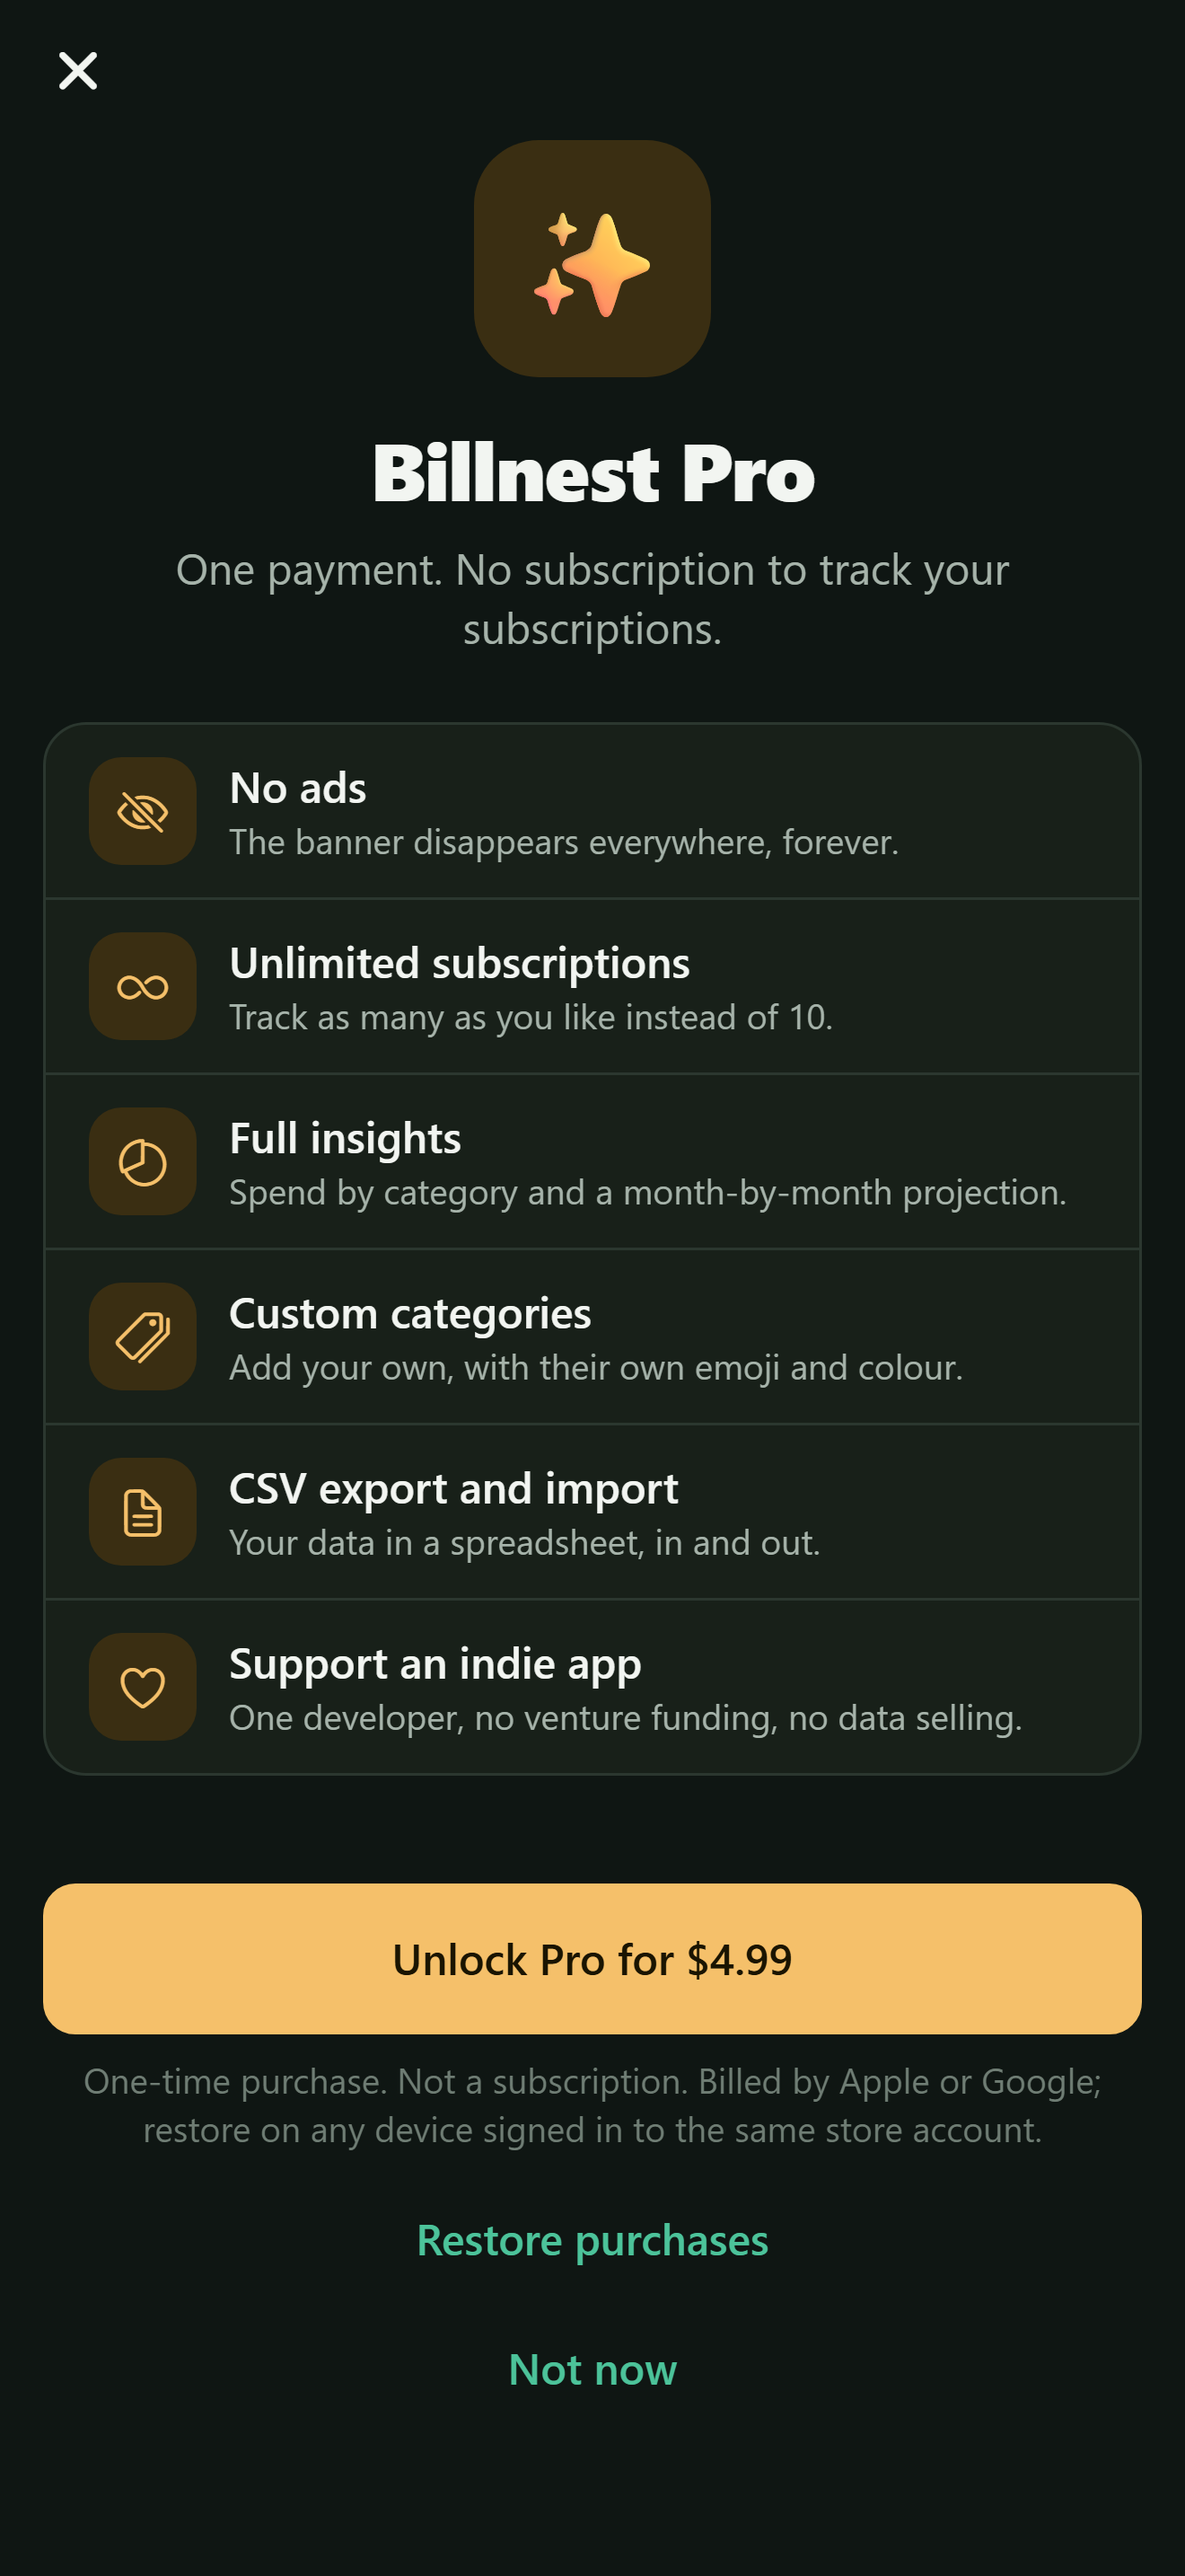
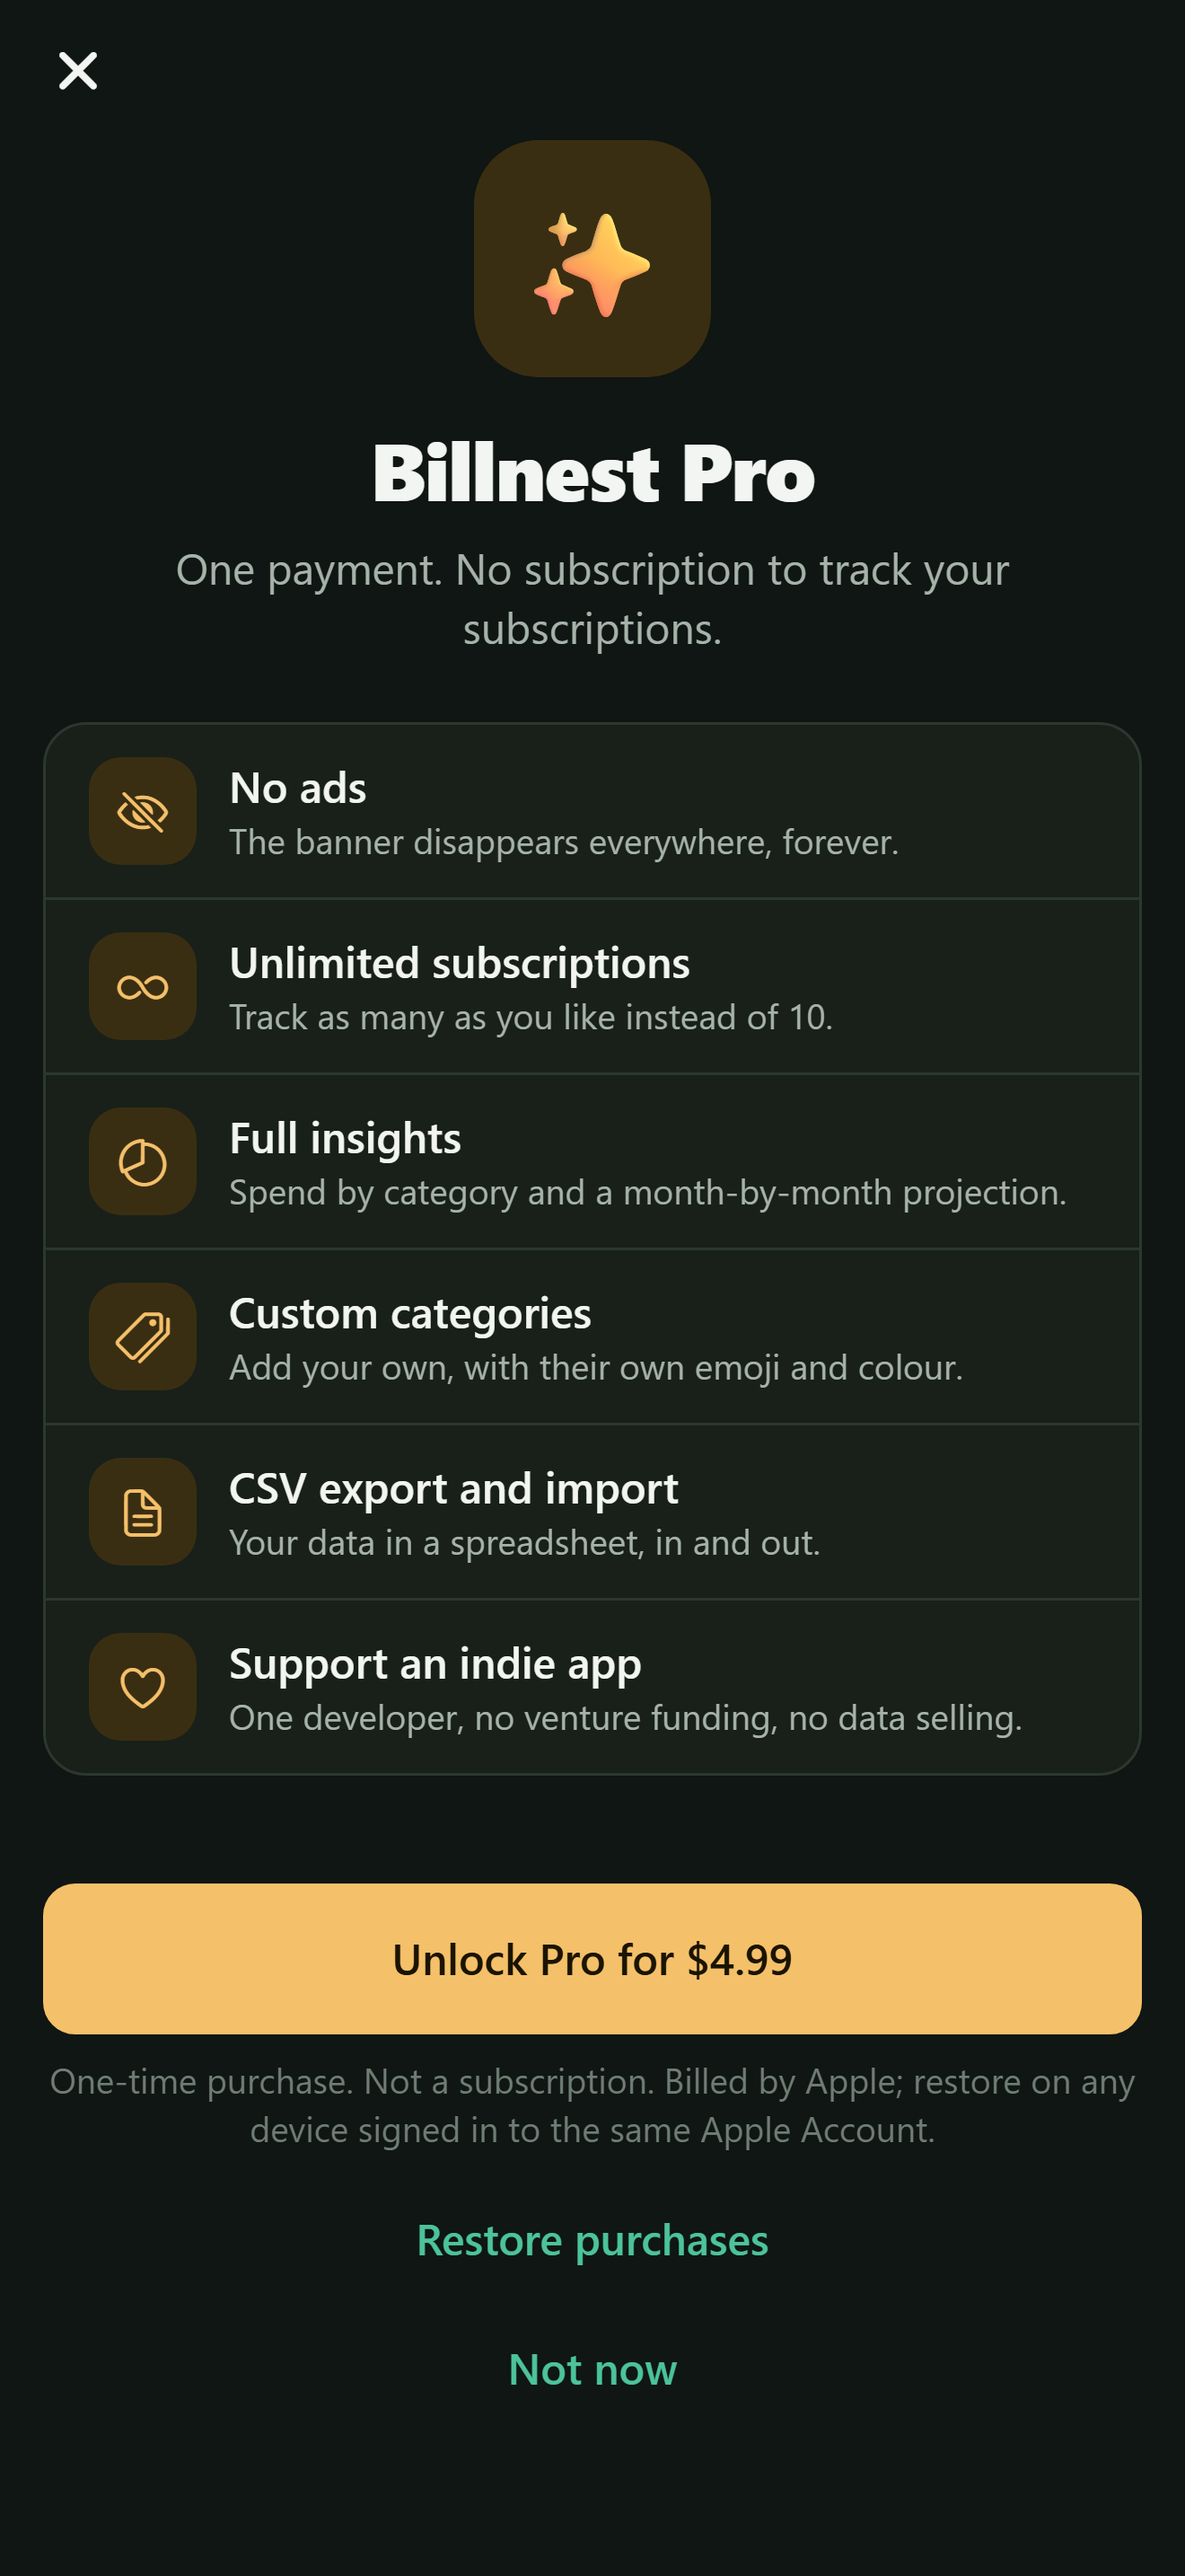
Pro screen names only the store the user is on (Apple or Google Play)

Changed region(s): [[0.1242, 0.8068, 0.9318, 0.8379]]

diff --git a/src/app/pro.tsx b/src/app/pro.tsx
@@ -11,7 +11,16 @@ import { Notice } from '@/components/Notice';
 import { Screen } from '@/components/Screen';
 import { FREE_ACTIVE_LIMIT } from '@/lib/limits';
 import { successHaptic } from '@/services/haptics';
-import { fetchProOffer, type ProOffer, purchasePro, purchasesSupported, restorePro, usePurchasesStatus } from '@/services/purchases';
+import {
+  billingStoreName,
+  fetchProOffer,
+  type ProOffer,
+  purchasePro,
+  purchasesSupported,
+  restorePro,
+  storeAccountName,
+  usePurchasesStatus,
+} from '@/services/purchases';
 import { useStore } from '@/store/useStore';
 import { useTheme } from '@/theme/useTheme';
 
@@ -168,7 +177,7 @@ export default function ProScreen() {
               testID="pro-buy"
             />
             <AppText variant="caption" tone="faint" align="center" style={{ marginTop: spacing.sm }}>
-              One-time purchase. Not a subscription. Billed by Apple or Google; restore on any device signed in to the same store account.
+              One-time purchase. Not a subscription. Billed by {billingStoreName()}; restore on any device signed in to the same {storeAccountName()}.
             </AppText>
             <Button
               label="Restore purchases"

diff --git a/src/services/purchases.native.ts b/src/services/purchases.native.ts
@@ -1,3 +1,5 @@
+import { Platform } from 'react-native';
+
 import { IS_EXPO_GO, PRO_ENTITLEMENT, PRO_PRODUCT_ID, revenueCatApiKey } from '@/config/monetization';
 
 import { createStatusStore } from './statusStore';
@@ -124,3 +126,13 @@ export async function restorePro(): Promise<RestoreOutcome> {
 }
 
 export const purchasesSupported = true;
+
+/** The store that bills this install, named the way the user knows it. */
+export function billingStoreName(): string {
+  return Platform.OS === 'android' ? 'Google Play' : 'Apple';
+}
+
+/** What the user signs in with to restore purchases on another device. */
+export function storeAccountName(): string {
+  return Platform.OS === 'android' ? 'Google account' : 'Apple Account';
+}

diff --git a/src/services/purchases.web.ts b/src/services/purchases.web.ts
@@ -19,6 +19,8 @@ export type RestoreOutcome = 'restored' | 'none' | 'failed';
  */
 interface StorePreview {
   priceString: string;
+  /** Which store's wording to show; set per screenshot set. */
+  store?: 'apple' | 'google';
 }
 
 function storePreview(): StorePreview | null {
@@ -50,3 +52,11 @@ export async function restorePro(): Promise<RestoreOutcome> {
 }
 
 export const purchasesSupported = false;
+
+export function billingStoreName(): string {
+  return storePreview()?.store === 'google' ? 'Google Play' : 'Apple';
+}
+
+export function storeAccountName(): string {
+  return storePreview()?.store === 'google' ? 'Google account' : 'Apple Account';
+}
